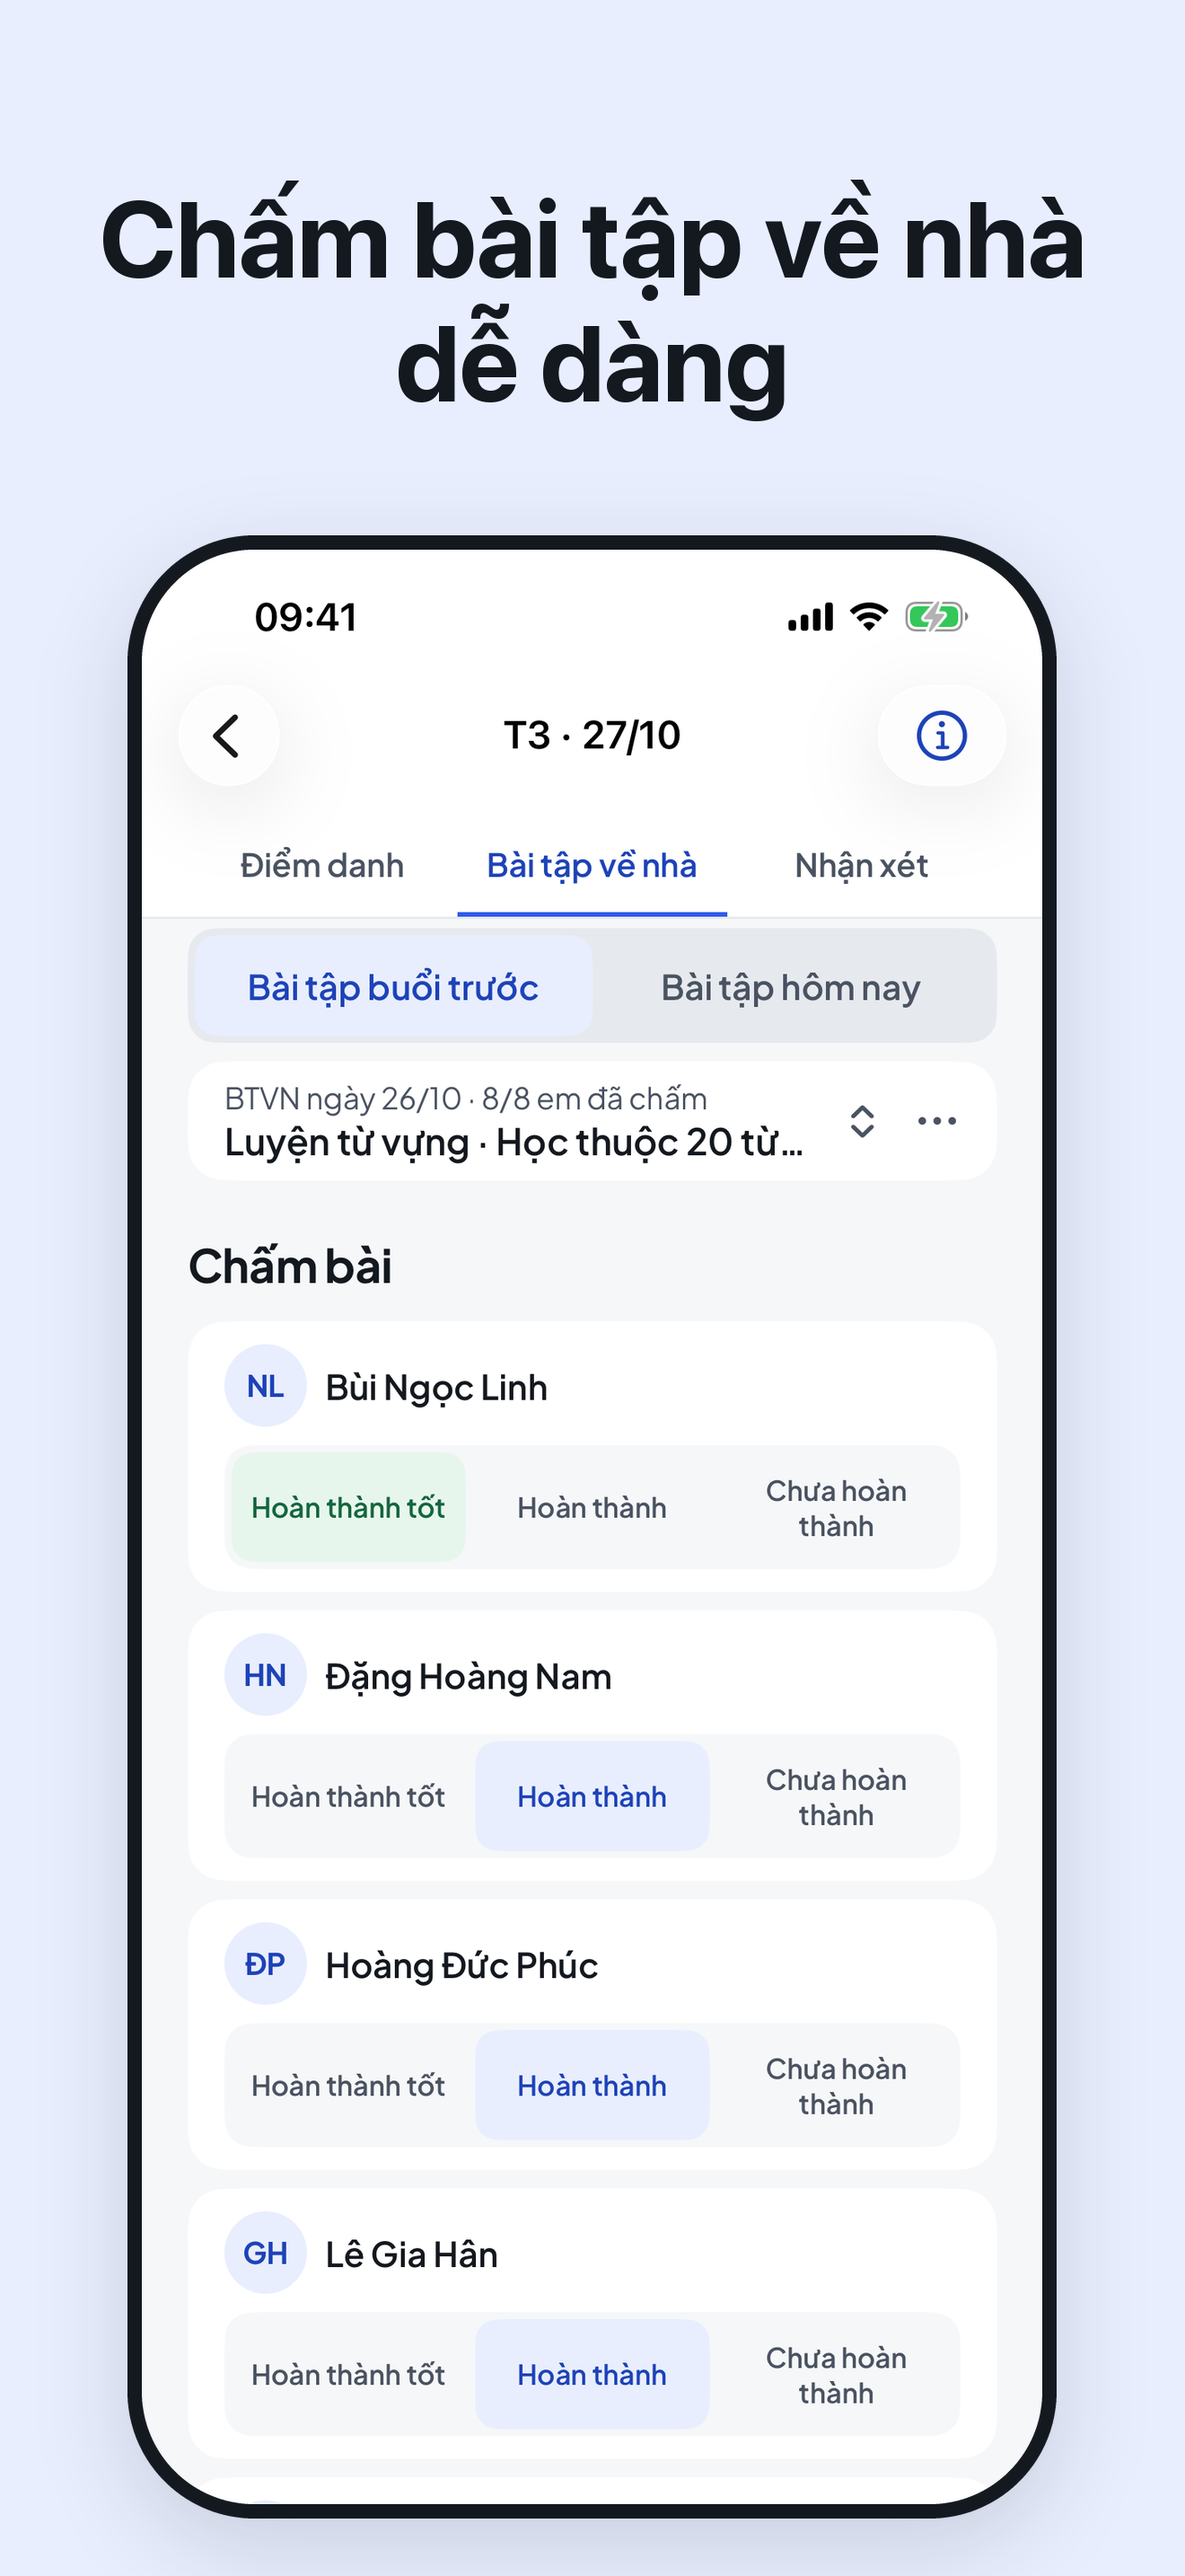
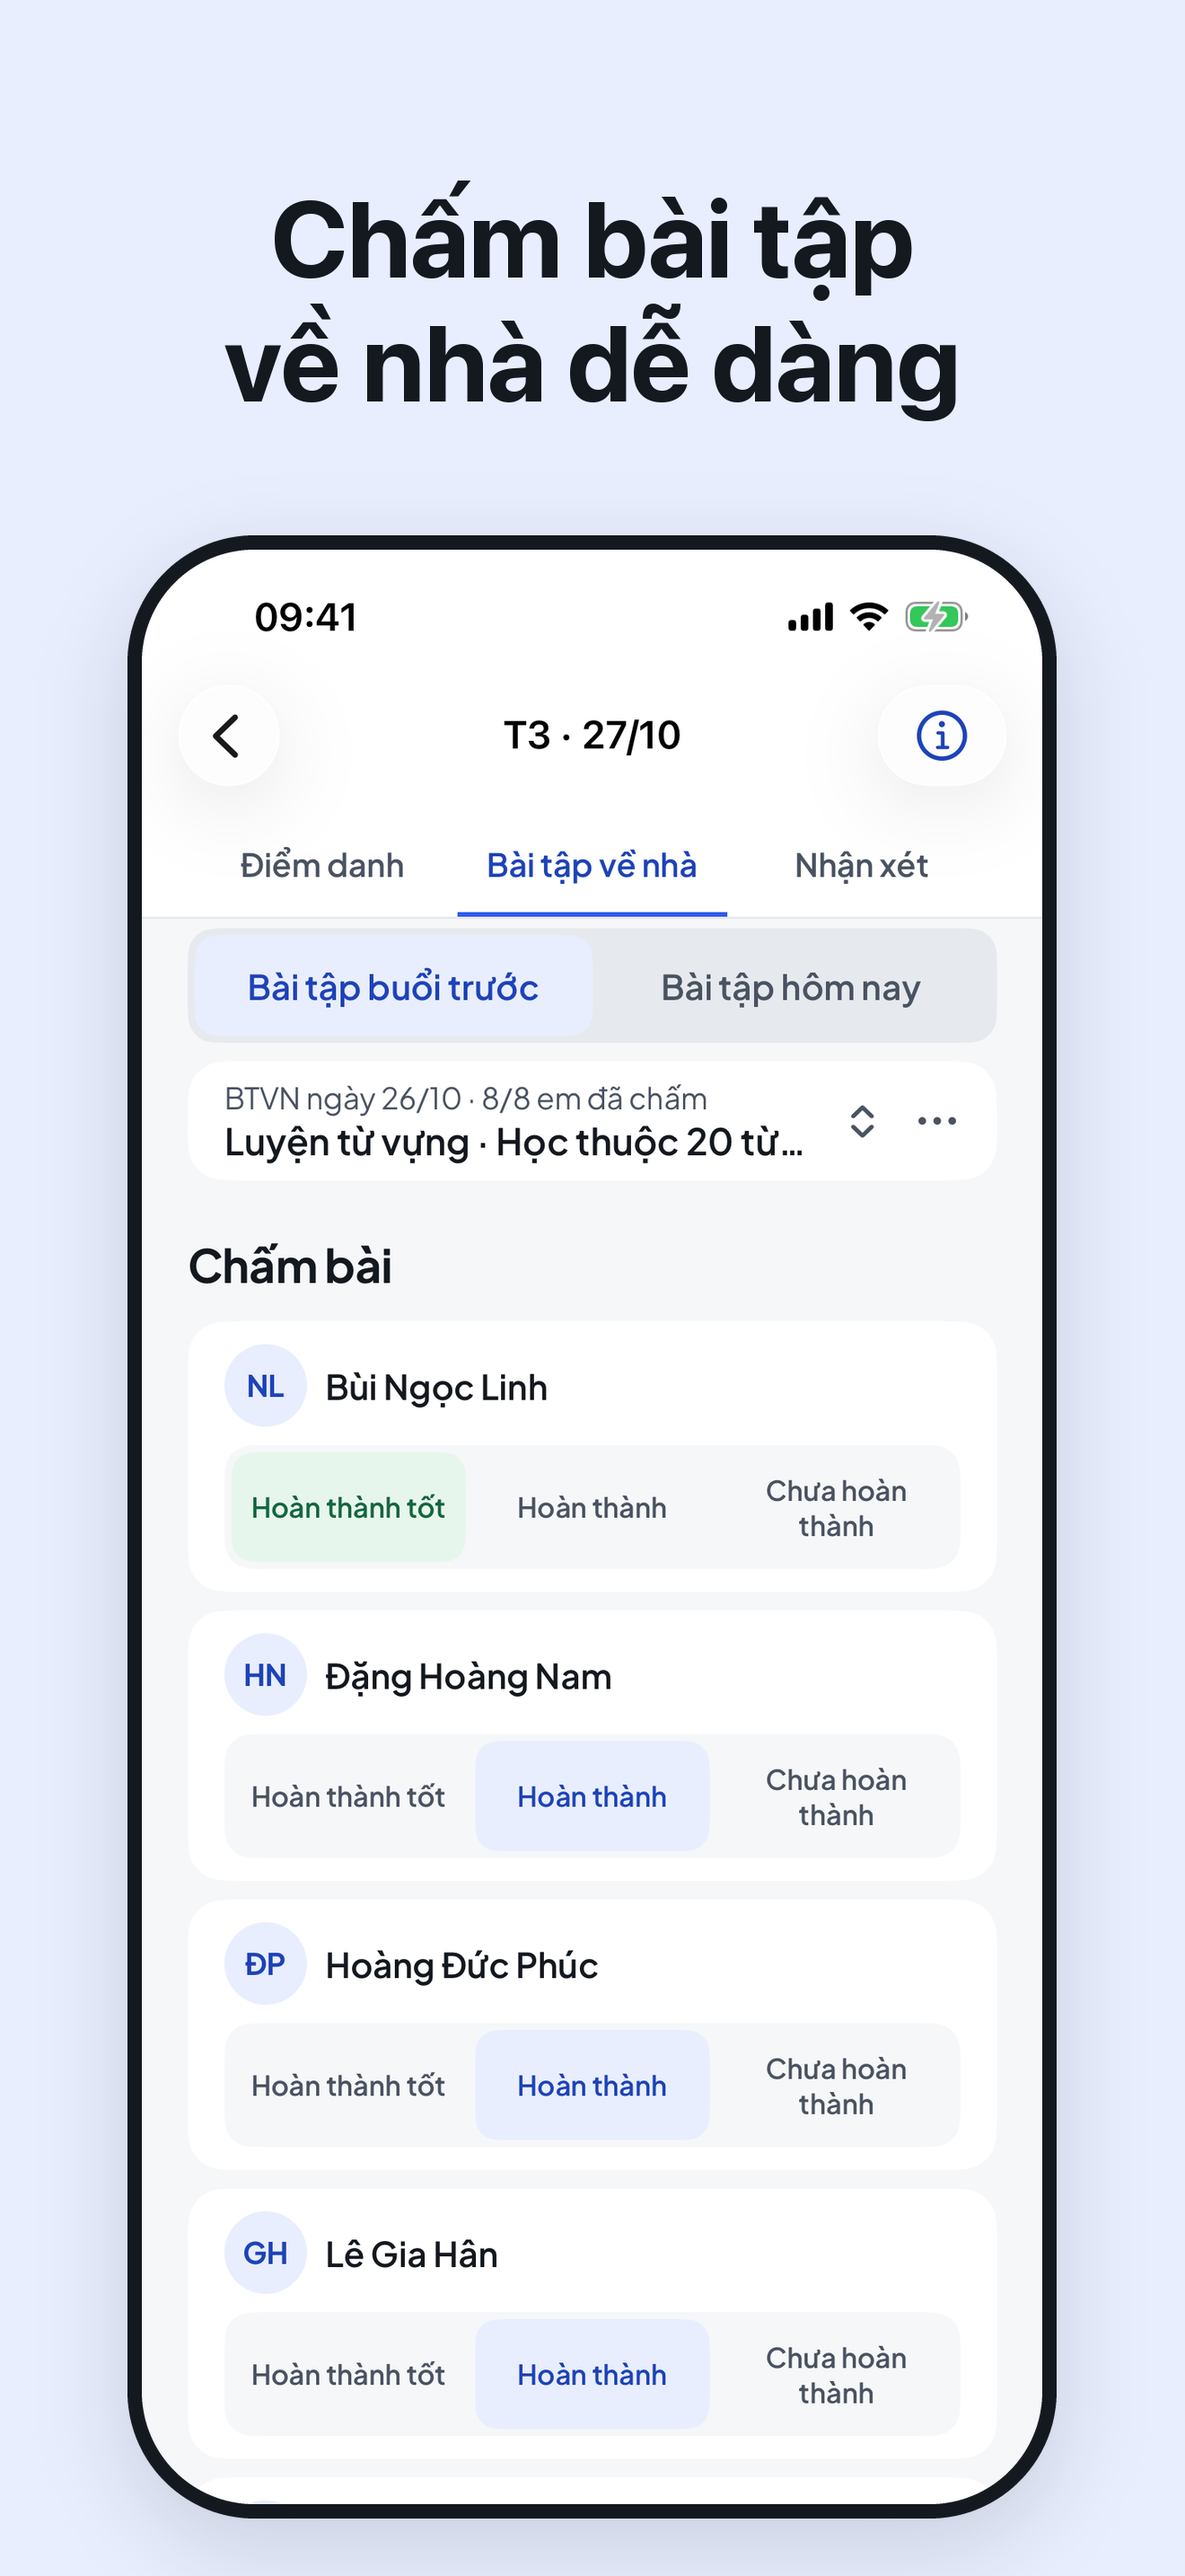
docs(ios): app store screenshot titles break between phrases

Changed region(s): [[0.0932, 0.0621, 0.9318, 0.1862]]

diff --git a/plans/20261021-mvp/ios/app-store/screenshots/compose/compose.py b/plans/20261021-mvp/ios/app-store/screenshots/compose/compose.py
@@ -86,7 +86,8 @@ def compose(raw_path, shot, cfg, tokens, fonts_cache):
         fonts_cache[key] = load_font(cfg["fonts"], size, tcfg["weight"])
     font = fonts_cache[key]
     lead = float(tokens[tcfg["lineHeight"]])
-    lines = wrap(draw, shot["title"], font, cw * tcfg["maxWidthRatio"])
+    # A title carries its own line breaks ("\n") so a phrase is never split mid-way; wrap() only guards overlong lines.
+    lines = [w for part in shot["title"].split("\n") for w in wrap(draw, part, font, cw * tcfg["maxWidthRatio"])]
     y = px(tokens, tcfg["topSpace"]) * scale
     for line in lines:
         width = draw.textlength(line, font=font)
